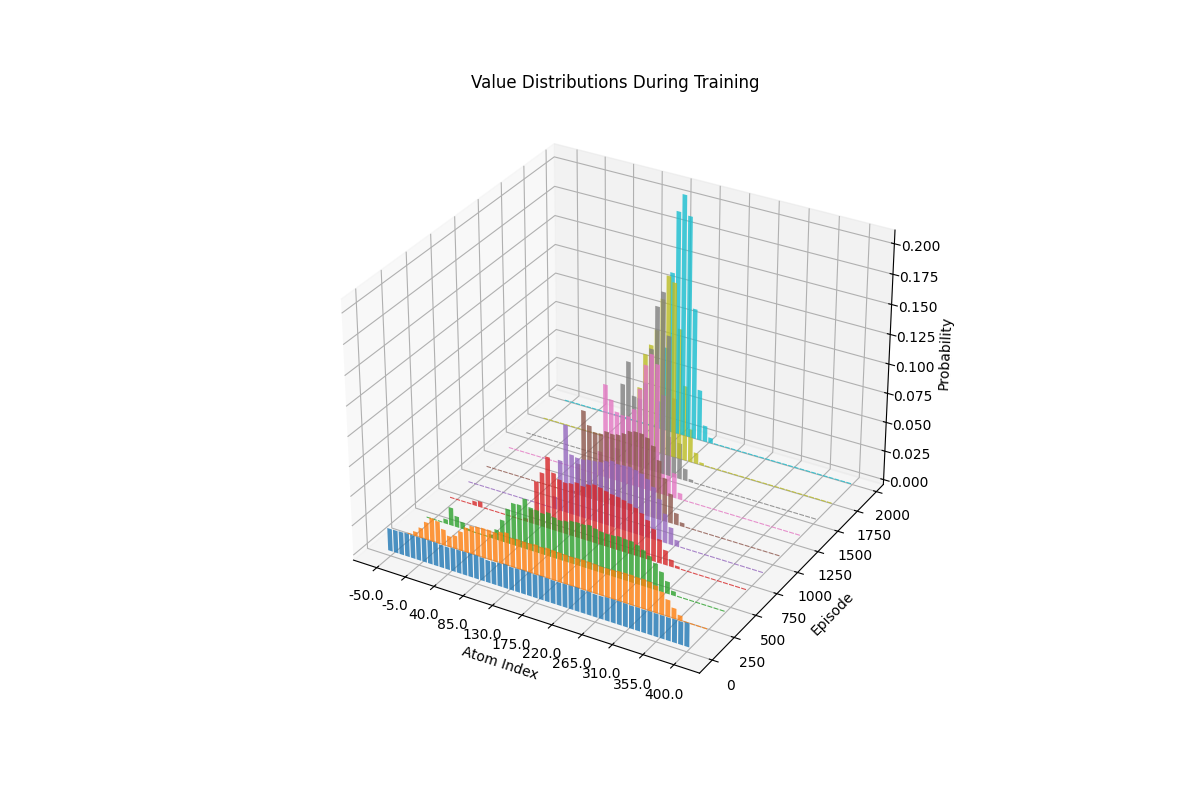
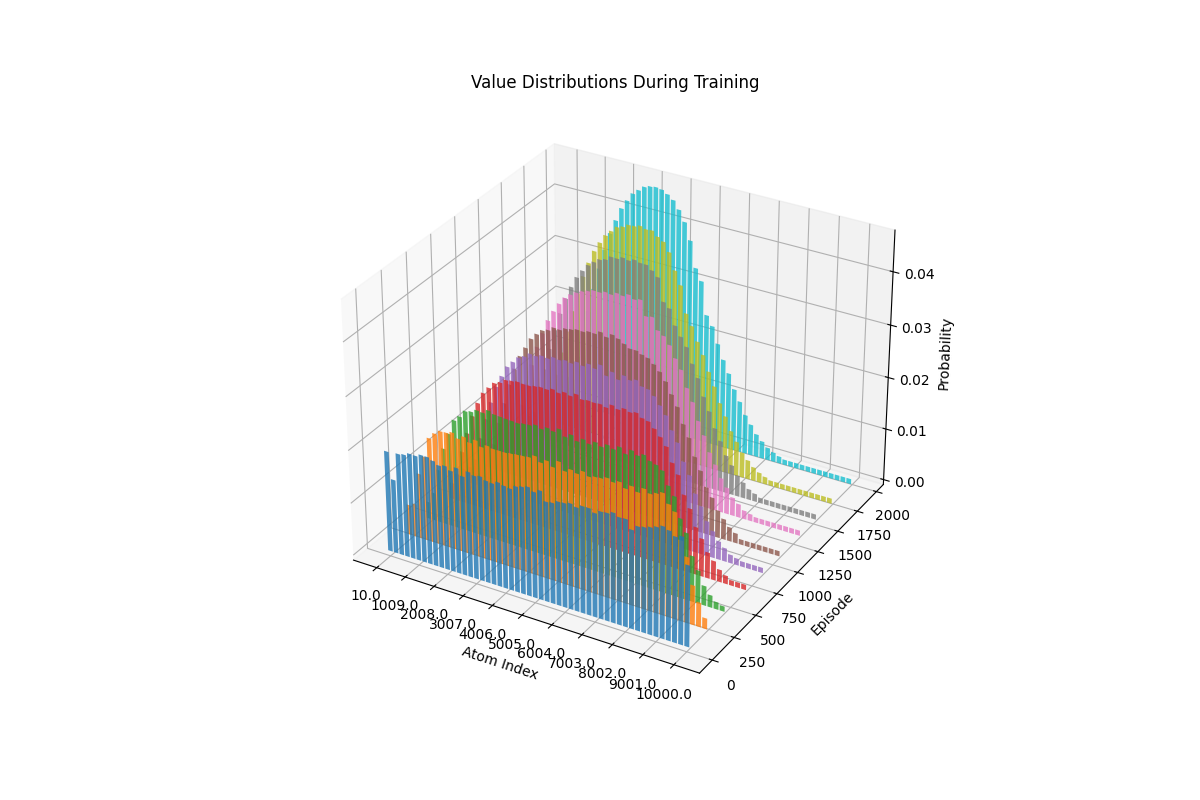
final ahhh

diff --git a/combined_agent.py b/combined_agent.py
@@ -52,7 +52,8 @@ class CombinedAgent:
             "n_step": 3,  # TODO  0 to anything
             "sigma_init": 0.5,
         },
-        hidden_dim: int = 256
+        hidden_dim: int = 256,
+        use_cpu = False,
     ):
         """Init"""
         self.env = env
@@ -80,10 +81,11 @@ class CombinedAgent:
         self.device = "cpu"
 
         # comment/uncomment below to use cpu/gpu
-        if torch.cuda.is_available():
-            self.device = "cuda"
-        if torch.mps.is_available():
-            self.device = "mps"
+        if not use_cpu:
+            if torch.cuda.is_available():
+                self.device = "cuda"
+            if torch.mps.is_available():
+                self.device = "mps"
             
         print(self.device)
 
@@ -167,15 +169,16 @@ class CombinedAgent:
 
         self.dqn_target.train(False)
 
-        if self.agent_config["usePrioritized"]:
-            # Change optimizer to RMSprop
-            self.optimizer = torch.optim.RMSprop(
-                self.dqn_network.parameters(),
-                lr=1e-3,  # Use higher learning rate with RMSprop
-                alpha=0.95,
-            )
-        else:
-            self.optimizer = torch.optim.Adam(self.dqn_network.parameters(), lr=alpha)
+        # if self.agent_config["useDistributive"]:
+        #     # Change optimizer to RMSprop
+        #     self.optimizer = torch.optim.RMSprop(
+        #         self.dqn_network.parameters(),
+        #         lr=2.5e-4,
+        #         alpha=0.95,
+        #         eps=1e-2
+        #     )
+        # else:
+        self.optimizer = torch.optim.Adam(self.dqn_network.parameters(), lr=alpha, eps=(0.001/32))
 
         self.batch_size = batch_size
         self.testing = False
@@ -330,9 +333,9 @@ class CombinedAgent:
         return {
             "state": torch.FloatTensor(samples["obs"]).to(self.device),
             "next_state": torch.FloatTensor(samples["next_obs"]).to(self.device),
-            "action": torch.LongTensor(samples["acts"]).unsqueeze(1).to(self.device),
-            "reward": torch.FloatTensor(samples["rews"]).unsqueeze(1).to(self.device),
-            "done": torch.FloatTensor(samples["done"]).unsqueeze(1).to(self.device),
+            "action": torch.LongTensor(samples["acts"]).to(self.device),
+            "reward": torch.FloatTensor(samples["rews"].reshape(-1,1)).to(self.device),
+            "done": torch.FloatTensor(samples["done"].reshape(-1,1)).to(self.device),
             "idxs": samples.get("idxs"),
             "weights": samples.get("weights"),
         }
@@ -376,17 +379,10 @@ class CombinedAgent:
             Tz = torch.clamp(Tz, self.v_min, self.v_max)  # type: ignore
             b = (Tz - self.v_min) / self.delta_z  # scale to [0, atom_size - 1]
             l = b.floor().long()  # lower bound
-            u = b.ceil().long()  # upper bound
+            u = b.ceil().long() + 1  # upper bound
 
             # offset for indexing in flattened tensor
-            offset = (
-                torch.linspace(
-                    0, (self.batch_size - 1) * self.atom_size, self.batch_size
-                )
-                .long()
-                .unsqueeze(1)
-                .to(self.device)
-            )
+            offset = (torch.arange(self.batch_size, device=self.device) * self.atom_size).unsqueeze(1)
 
             # init projection tensor
             proj = torch.zeros((self.batch_size, self.atom_size)).to(self.device)
@@ -464,11 +460,12 @@ class CombinedAgent:
             ):
                 print("flipped to testing")
                 self.testing = True
+                self.epsilon = 0
 
-            if self.agent_config["useDistributive"] and not self.testing:
-                # Track distributions periodically using the fixed state
-                if episode % self.tracking_interval == 0:
-                    self.track_distribution(fixed_state, episode)  # type: ignore
+            # if self.agent_config["useDistributive"] and not self.testing:
+            #     # Track distributions periodically using the fixed state
+            #     if episode % self.tracking_interval == 0:
+            #         self.track_distribution(fixed_state, episode)  # type: ignore
 
             rewards.append(ep_reward)
             # rewards2d.append(ep_rewards)

diff --git a/script.py b/script.py
@@ -1,85 +1,43 @@
+import sys
 import subprocess
 import itertools
 from multiprocessing import Pool
 import os
 
 def run_ddqn(params):
-    """Runs the ddqn.py script with the given parameters."""
-    memory_size, batch_size, target_update_freq,  lr, omega, beta, gamma, hidden_dim  = params
+    lr, = params
     command = [
-        "python",
+        sys.executable,  # ← ensures you use your venv’s Python
         "main.py",
-        "-memory_size", str(memory_size),
-        "-batch_size", str(batch_size),
-        "-target_update_freq", str(target_update_freq),
+        "-memory_size=50000",
         "-lr", str(lr),
-        "-omega", str(omega),
-        "-beta", str(beta),
-        "-gamma", str(gamma),
-        "-hidden_dim", str(hidden_dim),
-        "-useDouble"
-        # Add other arguments if needed, e.g., -num_episodes
-        # "-num_episodes", "500" # Example: uncomment and set if you want to override the default
+        "-useDistributive",
+        "-batch_size=64",
+        "-v_max=10000",
+        "-env=ALE/Asterix-ram-v5",
+        "-v_min=-10",
+        "-v_max=10000",
+        "-atom_size=51",
     ]
     print(f"Running with params: {params}")
     try:
-        # Use subprocess.run which waits for the command to complete
-        result = subprocess.run(command, check=True, capture_output=True, text=True)
-        print(f"Finished run with params: {params}")
-        # Optional: print stdout or stderr if needed
-        # print("STDOUT:", result.stdout)
-        # print("STDERR:", result.stderr)
+        subprocess.run(command, check=True)
         return f"Success: {params}"
     except subprocess.CalledProcessError as e:
-        print(f"Error running with params: {params}")
-        print(f"Command: {' '.join(command)}")
-        print(f"Return code: {e.returncode}")
-        print(f"Output: {e.output}")
-        print(f"Stderr: {e.stderr}")
-        return f"Failed: {params} - {e}"
-    except Exception as e:
-        print(f"An unexpected error occurred with params: {params}")
-        print(f"Error: {e}")
-        return f"Failed: {params} - {e}"
+        print(f"Failed {params}: {e}")
+        return f"Failed: {params}"
 
 if __name__ == "__main__":
-    # Define hyperparameter ranges to test
-    memory_sizes = [80000, 100000]
-    batch_sizes = [64, 256, 512]
-    target_update_freqs = [1000] # Adjust based on ddqn.py defaults/needs
-    # epsilon_decay_steps_list = [500000, 1000000] # Adjust based on ddqn.py defaults/needs
-    learning_rates = [5e-5, 1e-4]
-    # min_epsilons = [0.01, 0.05]
-    omegas = [0.6]
-    betas = [0.4]
-    gammas = [0.99, 0.95]
-    hidden_dims = [256, 512]
-
-    # Create all combinations of hyperparameters
-    param_combinations = list(itertools.product(
-        memory_sizes,
-        batch_sizes,
-        target_update_freqs,
-        learning_rates,
-        omegas,
-        betas,
-        gammas,
-        hidden_dims
-    ))
-
-    print(f"Total experiments to run: {len(param_combinations)}")
-
-    # Ensure the results directory exists
+   
     os.makedirs("results", exist_ok=True)
 
-    # Number of processes to run in parallel
-    num_processes = 2
+    lr = [2.5e-4, 1e-4, 5e-4, 1e-5, 5e-5]
+    param_combinations = list(itertools.product(lr))
 
-    # Use a Pool to run experiments in parallel
-    with Pool(processes=num_processes) as pool:
+    with Pool(processes=5) as pool:
         results = pool.map(run_ddqn, param_combinations)
 
     print("\n--- Experiment Summary ---")
-    for result in results:
-        print(result)
+    for r in results:
+        print(r)
     print("--- All experiments finished ---")

diff --git a/plot.py b/plot.py
@@ -7,7 +7,8 @@ from util.running_mean import running_mean
 from params import NUM_TOTAL_EPISODES, NUMBER_TEST_EPISODES
 
 def _plot_group(npy_files, directory, suffix,
-                smoothing_window=50, figsize=(12,8)):
+                smoothing_window=50, figsize=(12,8),
+                exclude_variants=None, min_avg=None, max_avg=None):
     # derive game name from the first file
     base0 = os.path.basename(npy_files[0]).replace('.npy','')
     game = base0.split('_')[0].split('-')[0]
@@ -25,14 +26,41 @@ def _plot_group(npy_files, directory, suffix,
 
         variant = name[len(game)+7:].lstrip('_')
         data = np.load(fp, allow_pickle=True)
-        avg  = [(x+y+z)/3.0 for x,y,z in zip(data[0], data[1], data[2])]
+        if data.ndim == 1:
+            avg = data[0]
+        else:
+            avg = [(x+y+z)/3.0 for x,y,z in zip(data[0], data[1], data[2])]
+
+        # make sure there are test episodes to average
+        if len(avg) < split_idx:
+            print(f"Skipping {variant}: only {len(avg)} episodes (< split_idx {split_idx})")
+            continue
+
+        # now slice out the test part and compute its mean
+        test_slice = avg[split_idx:]
+        mean_val = np.mean(test_slice)
+
+        # skip by name
+        if exclude_variants and variant in exclude_variants:
+            continue
+        # skip if below/above thresholds (now using test‐mean)
+        if min_avg is not None and mean_val < min_avg:
+            continue
+        if max_avg is not None and mean_val > max_avg:
+            continue
+
         all_min.append(min(avg)); all_max.append(max(avg))
 
         sm = running_mean(avg, smoothing_window)
         ax.plot(sm, label=f"{variant} (smoothed)",
                 color=colors[i], alpha=0.7)
 
-        test_stats.append((variant, np.mean(avg[split_idx:])))
+        test_stats.append((variant, mean_val))
+
+    # if no runs survived the filters, bail out
+    if not all_min:
+        print(f"No variants to plot for {game} after applying filters.")
+        return
 
     # vertical line
     ax.axvline(split_idx, color='k', linestyle='--', linewidth=1)

diff --git a/util/CombinedNetwork.py b/util/CombinedNetwork.py
@@ -28,10 +28,10 @@ class CombinedNeuralNet(nn.Module):
         if self.network_config["useDistributive"]:
             self.support = combined_params["support"]
             self.atom_size = combined_params["atom_size"]
-
-        # setting output dim to account for atom size if distributive net is used
-        self.output_dim = output_dim * \
-            self.atom_size if self.network_config["useDistributive"] else output_dim
+        else: 
+            self.atom_size = 1
+        
+        self.output_dim = output_dim
         flat_input_dim = int(np.prod(input_dim))
         self.fc1 = nn.Linear(flat_input_dim, hidden_dim)
 
@@ -42,13 +42,14 @@ class CombinedNeuralNet(nn.Module):
             self.fc3 = NoisyLayer(hidden_dim, self.output_dim, self.sigma_init)
         else:
             self.fc2 = nn.Linear(hidden_dim, hidden_dim)
-            self.fc3 = nn.Linear(hidden_dim, self.output_dim)
+            self.fc3 = nn.Linear(hidden_dim, self.output_dim * self.atom_size)
 
         if self.network_config["useDuel"]:
             self.fc_value = nn.Linear(hidden_dim, 1)
 
 
     def forward(self, x, return_prob=False):
+        x = x / 255.0  # Normalize input to [0,1] range
         x = torch.flatten(x, start_dim=1)
         x = F.relu(self.fc1(x))
         x = F.relu(self.fc2(x))
@@ -61,14 +62,14 @@ class CombinedNeuralNet(nn.Module):
 
         if self.network_config["useDistributive"]:
             # Reshape to (batch_size, output_dim, atom_size)
-            q = q.view(q.size(0), -1, self.atom_size)
+            q = q.view(-1, self.output_dim, self.atom_size)
             # Get probability distribution and clamp for numerical stability
             prob = F.softmax(q, dim=-1)
             prob = prob.clamp(min=1e-3)
             # get weighted sum by summing over the atoms
             if (isinstance(self.support, torch.Tensor)):
-                q = torch.sum(prob * self.support, dim=-1)
-            return (prob, q) if return_prob else q
+                q = torch.sum(prob * self.support, dim=2)
+                return (prob, q) if return_prob else q
 
         return q
 

diff --git a/params.py b/params.py
@@ -13,8 +13,8 @@ import torch
 WINDOW_SIZE = 200
 
 # Training Parameters
-NUMBER_STEPS = 700
-NUMBER_TRAIN_EPISODES = 700
+NUMBER_STEPS = 400
+NUMBER_TRAIN_EPISODES = 2000
 NUMBER_TEST_EPISODES = 200
 NUM_TOTAL_EPISODES = NUMBER_TRAIN_EPISODES+NUMBER_TEST_EPISODES                # changed for atari (stocks was 500 + 200)
 
@@ -24,11 +24,11 @@ NUM_TOTAL_EPISODES = NUMBER_TRAIN_EPISODES+NUMBER_TEST_EPISODES                #
 MEMORY_SIZE = 80000                     # changed for atari (stocks was 80 000)
 
 BATCH_SIZE = 32                         # changed for atari (stocks was 256)
-LEARNING_RATE = 1e-4                    # changed for atari (stocks was 5e-4)
+LEARNING_RATE = 5e-5                    # changed for atari (stocks was 5e-4)
 TARGET_UPDATE_FREQ = 8000               # changed for atari (stocks was 1000)
 MIN_EPSILON = 0.01                      # changed for atari (stocks was 0.1)
 EPSILON_DECAY_STEPS = (
-    NUMBER_STEPS * NUMBER_TRAIN_EPISODES * 0.7
+    NUMBER_STEPS * NUMBER_TRAIN_EPISODES * 0.75
 )
 HIDDEN_DIM = 512                        # changed for atari (stocks was 256)
 

diff --git a/main1.py b/main1.py
@@ -61,7 +61,7 @@ print(rainbow_config)
 ===========================================================================
 '''
 # creating the env
-env = gym.make(args.env)
+env = gym.make(args.env, max_episode_steps=NUMBER_STEPS)
 
 '''
 ===========================================================================
@@ -99,7 +99,7 @@ if len(model_name) == 0:
 
 trials = 1
 
-checkpoint_filename = f"{filename}/{args.env[3:]}_{model_name}_RSM" + ".npy"
+checkpoint_filename = f"{filename}/{args.env[3:]}_{model_name}_lr{args.lr}_v{args.v_max}_atom{args.atom_size}" + ".npy"
 if os.path.exists(checkpoint_filename):
     # Skip training if the file already exists
     print(
@@ -128,7 +128,8 @@ else:
             agent_config=rainbow_config,
             combined_params=default_params,
             gamma=default_params["gamma"],
-            hidden_dim=int(args.hidden_dim)
+            hidden_dim=int(args.hidden_dim),
+            use_cpu=True,
         )
 
 
